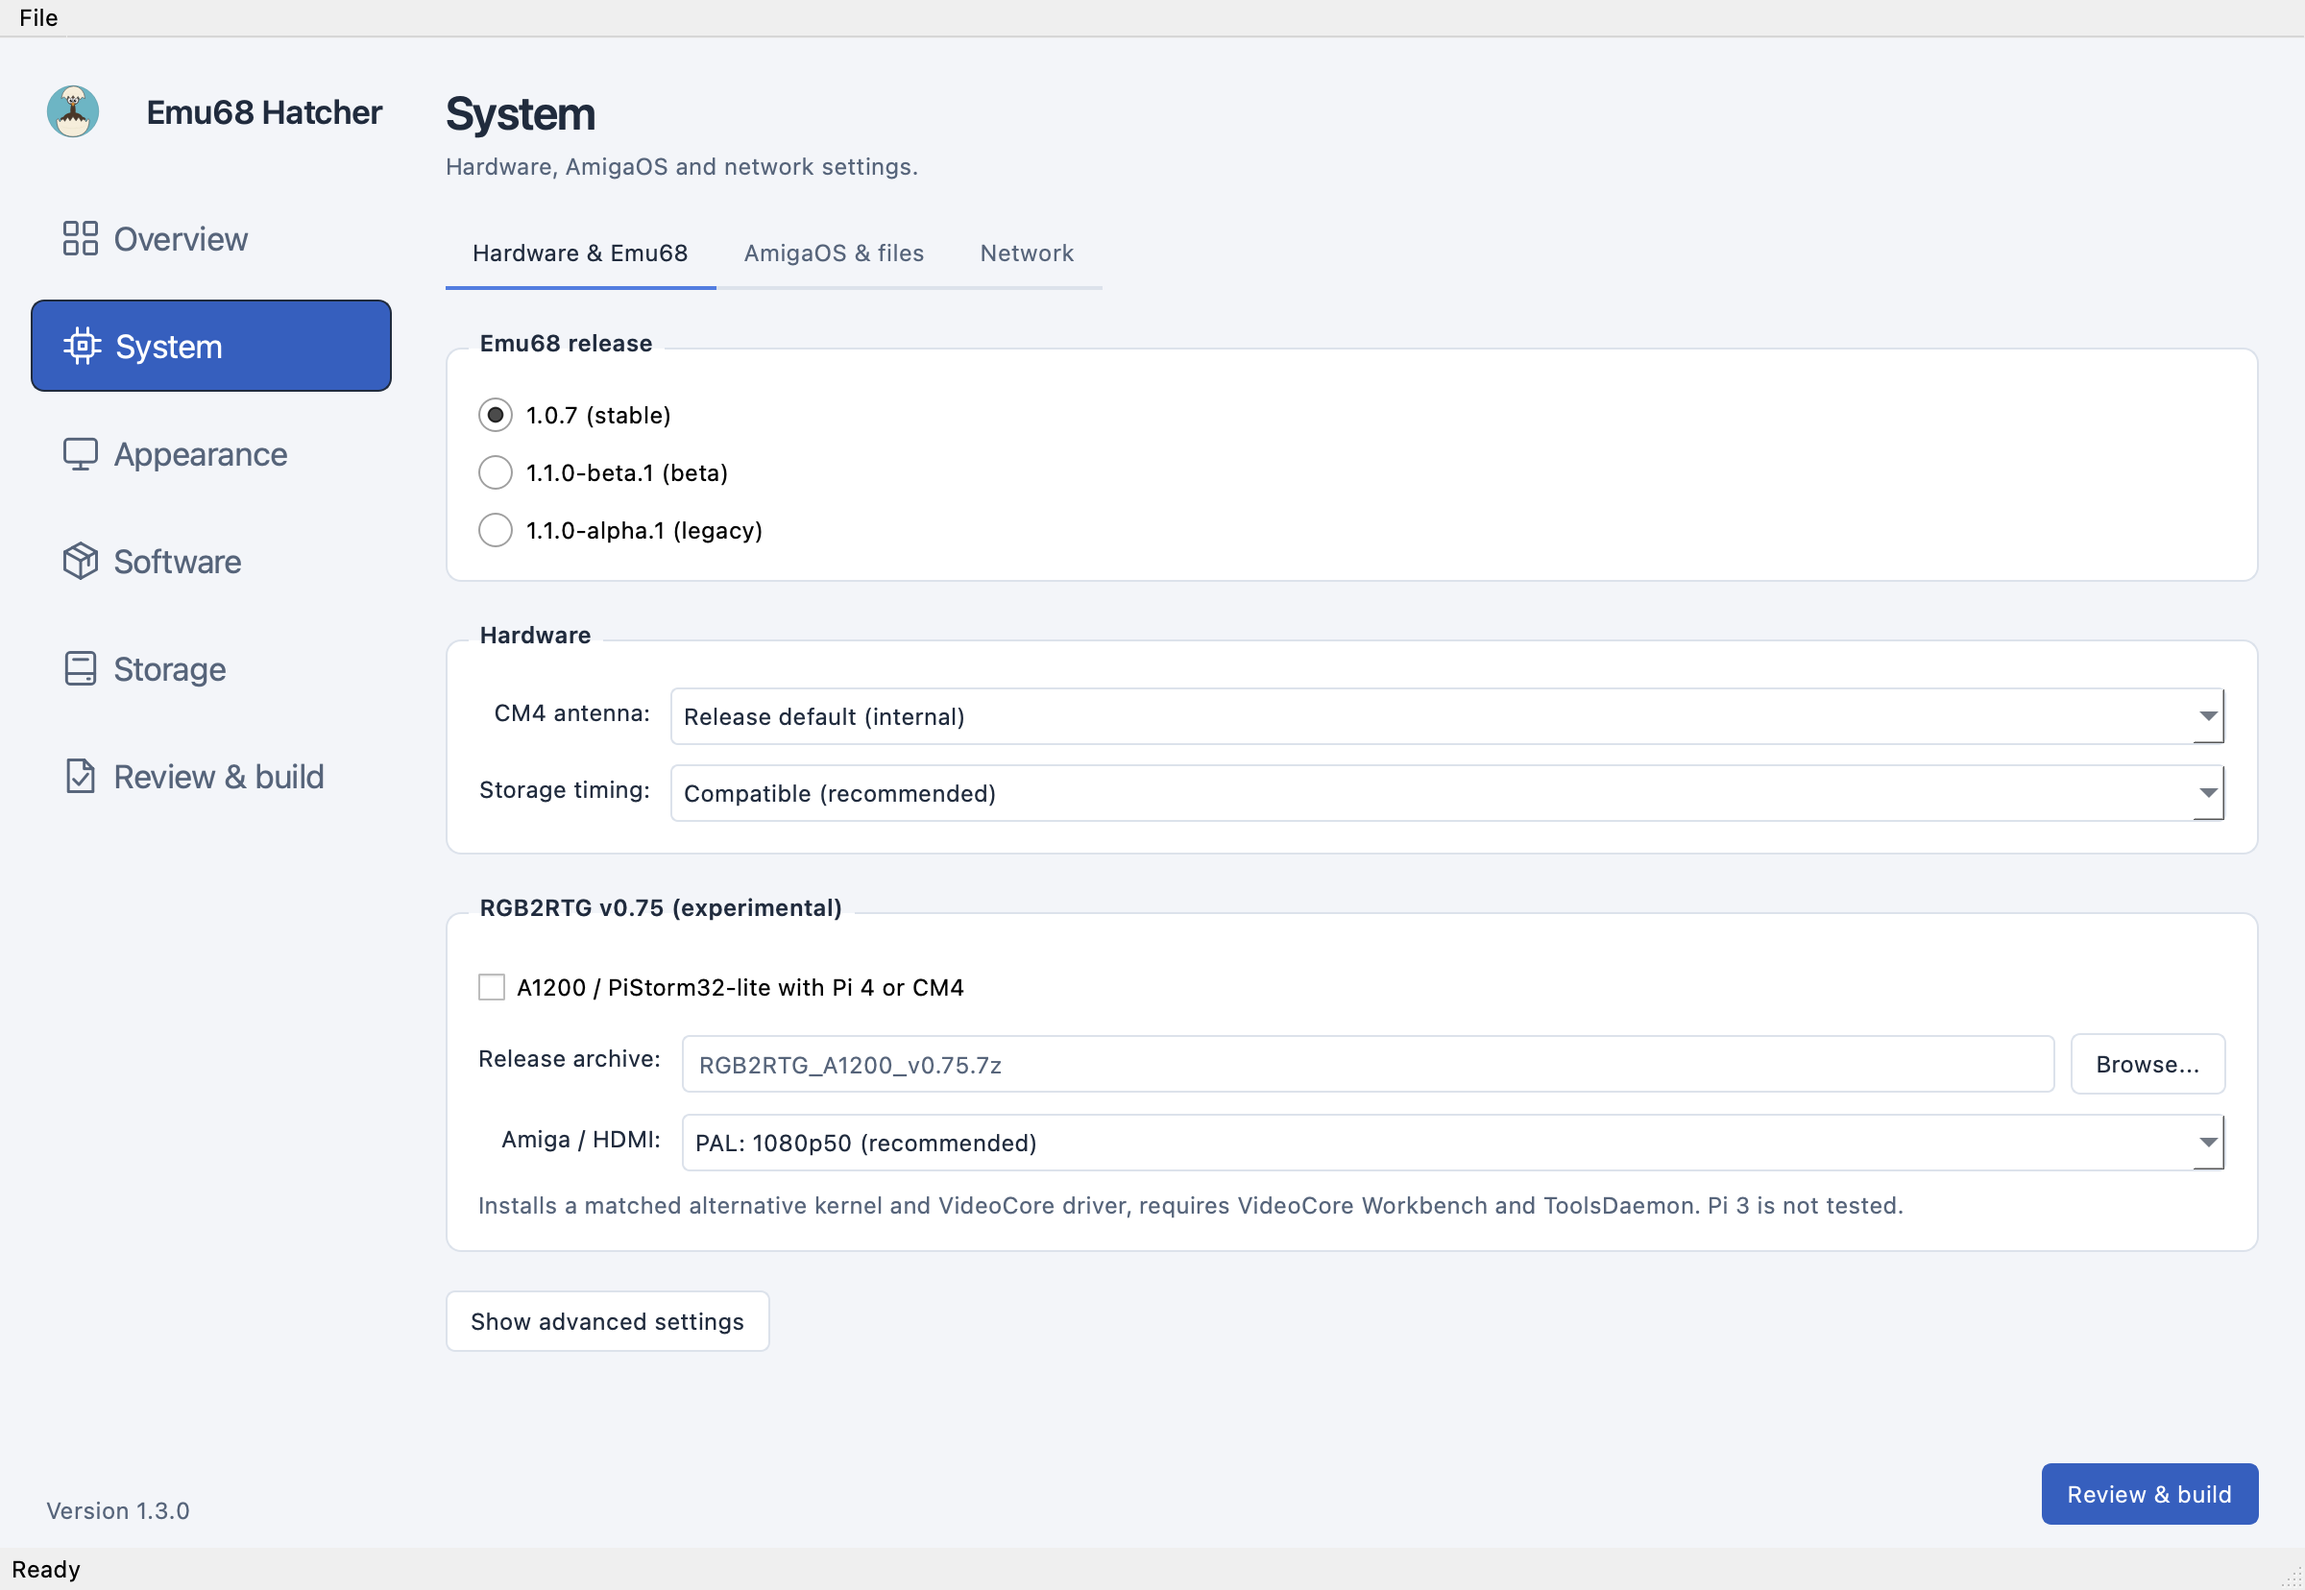
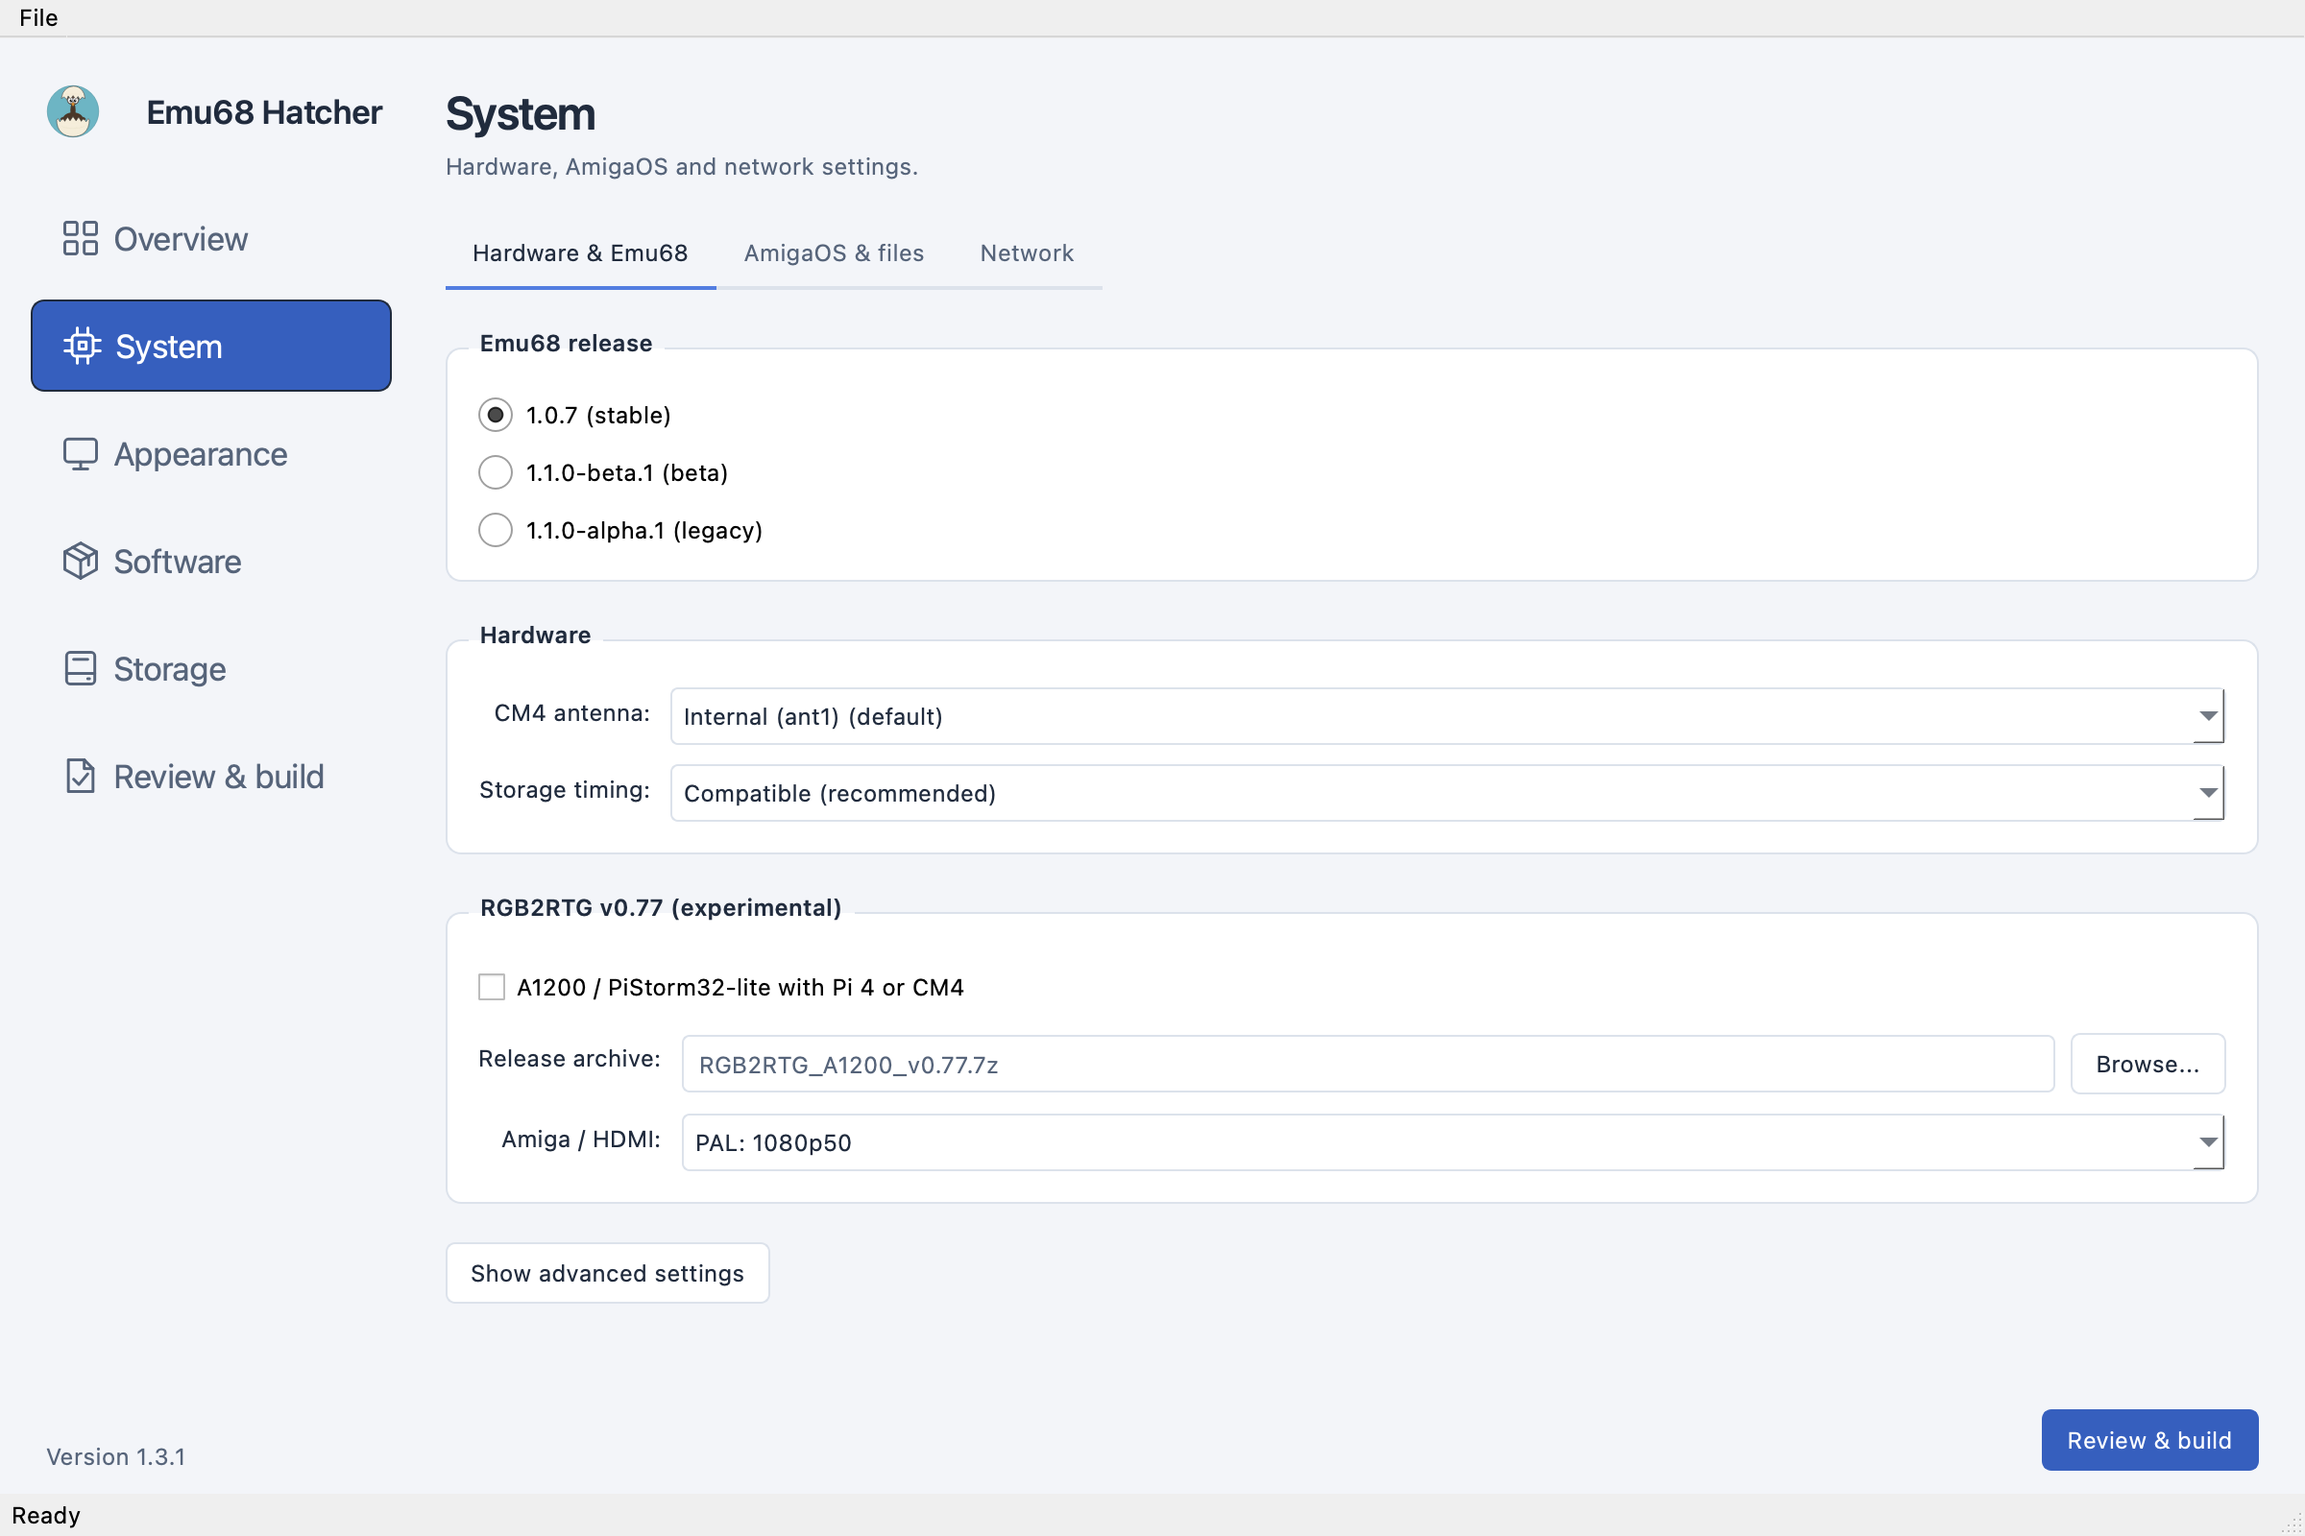
refresh docs screenshots, fix source tarball name
screenshots still showed rgb2rtg v0.75 and the old release default
entries; the github source archive is named emu68-hatcher-<version>.

diff --git a/docs/installation.md b/docs/installation.md
@@ -42,7 +42,7 @@
 
     ```bash
     # from a release tarball
-    tar xf emu68hatcher-<version>.tar.gz && cd emu68-hatcher-<version>
+    tar xf emu68-hatcher-<version>.tar.gz && cd emu68-hatcher-<version>
 
     # or from git
     git clone https://github.com/rootrootde/emu68-hatcher.git && cd emu68-hatcher
@@ -72,7 +72,7 @@
 
     ```bash
     # from a release tarball
-    tar xf emu68hatcher-<version>.tar.gz && cd emu68-hatcher-<version>
+    tar xf emu68-hatcher-<version>.tar.gz && cd emu68-hatcher-<version>
 
     # or from git
     git clone https://github.com/rootrootde/emu68-hatcher.git && cd emu68-hatcher
@@ -98,7 +98,7 @@
 
     ```powershell
     # from a release tarball (Windows 10+ has tar built in)
-    tar xf emu68hatcher-<version>.tar.gz; cd emu68-hatcher-<version>
+    tar xf emu68-hatcher-<version>.tar.gz; cd emu68-hatcher-<version>
 
     # or from git
     git clone https://github.com/rootrootde/emu68-hatcher.git; cd emu68-hatcher

diff --git a/docs/usage.md b/docs/usage.md
@@ -127,7 +127,7 @@ also needs Full Disk Access; see [Installation](installation.md#macos).
 
 Package files you put into **packages** inside the Hatcher data folder join the
 catalog on that machine: **Library/Application Support/Emu68 Hatcher** on macOS,
-**LOCALAPPDATA** on Windows, **.local/share/emu68hatcher** on Linux, or
+**LOCALAPPDATA\Emu68 Hatcher** on Windows, **.local/share/emu68hatcher** on Linux, or
 **hatcher_data** in a source checkout. They use the same YAML form as the
 bundled packages, show up in the Software work area and survive catalog
 updates. A file that does not load is reported in the log and skipped.
